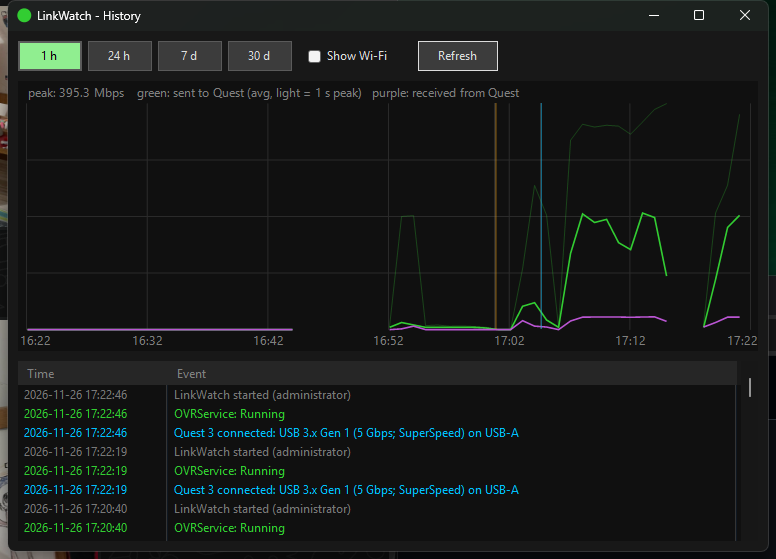
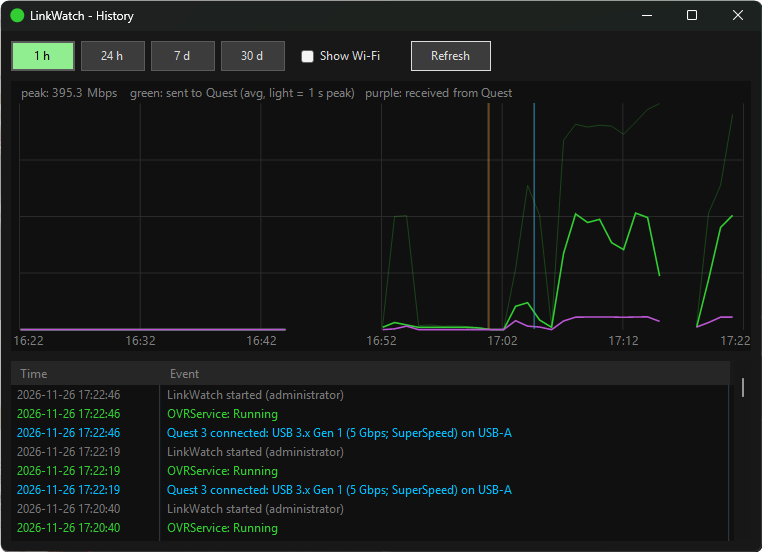
Screenshots: window only, rounded transparent corners, no desktop behind

Changed region(s): [[0.0, 0.0, 1.0, 1.0], [0.7848, 0.3696, 0.8753, 0.4928], [0.5131, 0.3696, 0.5433, 0.4004]]

diff --git a/src/LinkWatch.cs b/src/LinkWatch.cs
@@ -740,10 +740,20 @@ class MainForm : Form {
 #if DEVTOOLS
     // ---------- screenshots for the README (dev builds only) ----------
     public static EventWaitHandle ShotEvent;
+    [StructLayout(LayoutKind.Sequential)] struct RECT { public int Left, Top, Right, Bottom; }
+    [DllImport("dwmapi.dll")] static extern int DwmGetWindowAttribute(IntPtr h, int attr, out RECT r, int size);
     static void CaptureWindow(Form f, string file) {
         f.TopMost = true; f.Activate(); f.Refresh(); Application.DoEvents(); Thread.Sleep(400);
-        using (var b = new Bitmap(f.Width, f.Height)) {
-            using (var g = Graphics.FromImage(b)) g.CopyFromScreen(f.Location, Point.Empty, f.Size);
+        // only the visible window: its real frame (without the invisible resize border) with rounded, transparent
+        // corners, so nothing of the desktop behind it ends up in the picture
+        RECT r; DwmGetWindowAttribute(f.Handle, 9, out r, 16);   // DWMWA_EXTENDED_FRAME_BOUNDS
+        int w = r.Right - r.Left, h = r.Bottom - r.Top;
+        using (var shot = new Bitmap(w, h))
+        using (var b = new Bitmap(w, h, System.Drawing.Imaging.PixelFormat.Format32bppArgb)) {
+            using (var g = Graphics.FromImage(shot)) g.CopyFromScreen(r.Left, r.Top, 0, 0, new Size(w, h));
+            using (var g = Graphics.FromImage(b))
+            using (var brush = new TextureBrush(shot))
+            using (var path = RoundRect(0, 0, w, h, 8)) { g.SmoothingMode = SmoothingMode.AntiAlias; g.Clear(Color.Transparent); g.FillPath(brush, path); }
             b.Save(Path.Combine(Path.GetTempPath(), file), System.Drawing.Imaging.ImageFormat.Png);
         }
         f.TopMost = false;

diff --git a/README.md b/README.md
@@ -19,7 +19,7 @@
 </p>
 
 <p align="center">
-  <img src="docs/main.png" alt="LinkWatch main window" width="513">
+  <img src="docs/main.png" alt="LinkWatch main window" width="499">
 </p>
 
 ---
@@ -115,7 +115,7 @@ If your Link image is blurry, stutters or drops, check the cable before anything
 - **Small and self-contained**: a single exe of about 70 KB, built with the C# compiler that ships with Windows. No installer, no runtime to download, no telemetry.
 
 <p align="center">
-  <img src="docs/history.png" alt="History window" width="776">
+  <img src="docs/history.png" alt="History window" width="762">
 </p>
 
 ## Download and run
@@ -124,7 +124,7 @@ If your Link image is blurry, stutters or drops, check the cable before anything
 2. Put it anywhere, for example `C:\Tools\LinkWatch\`, and run it.
 3. Click the **gear** icon, tick **Run as administrator (asks only once)** and press OK. Approve the Windows prompt.
 
-   <img src="docs/settings.png" alt="Settings" width="366">
+   <img src="docs/settings.png" alt="Settings" width="352">
    This is needed for the USB data rate (ETW needs admin) and for restarting the service without a prompt.
 4. Optional: keep **Start with Windows** ticked so it lives in your tray.
 
